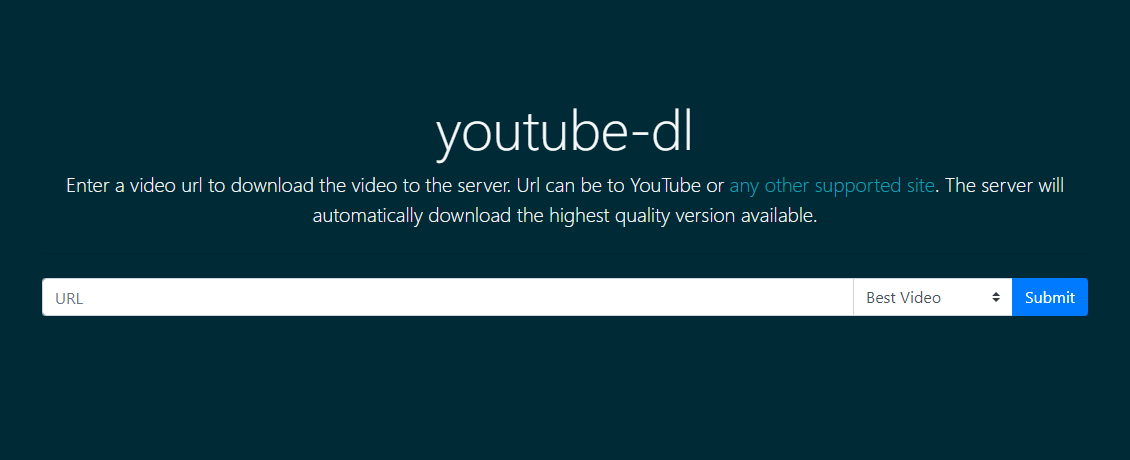
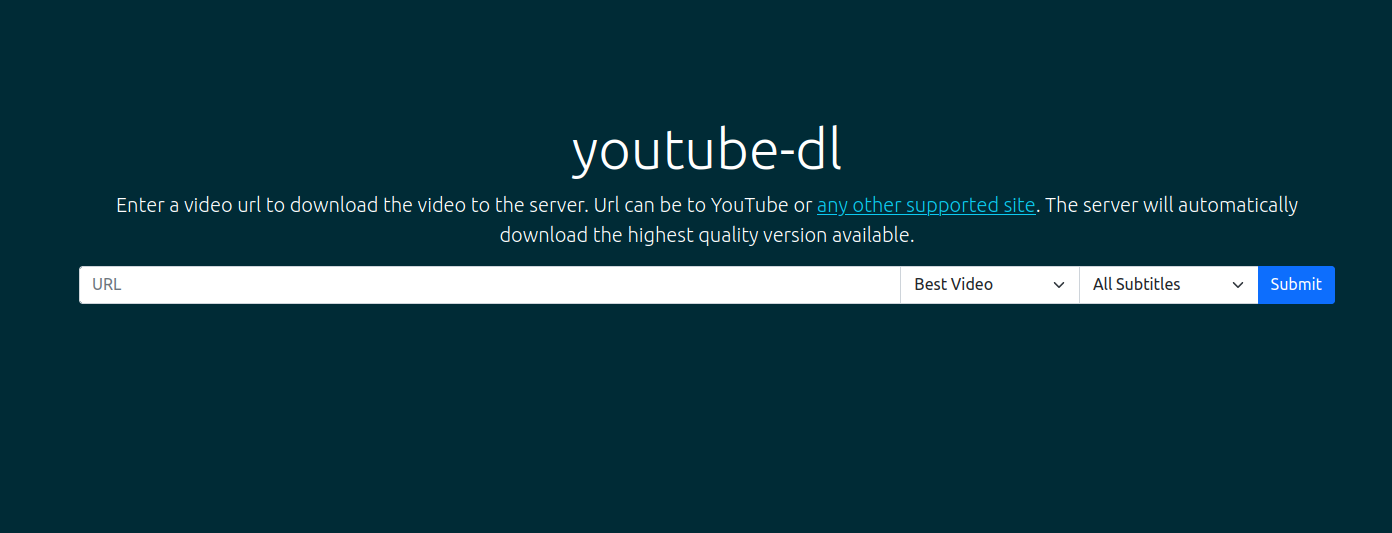
feat: add option to download subtitles
The option also include a way to convert the subtitles to srt, to support older video players

Changed region(s): [[0.031, 0.213, 0.9602, 0.7]]

diff --git a/templates/index.html b/templates/index.html
@@ -76,6 +76,11 @@
                 <option value="wav">WAV</option>
               </optgroup>
             </select>
+            <select class="form-select" name="subtitles">
+              <option value="no-subtitles">No Subtitles</option>
+              <option value="all">All Subtitles</option>
+              <option value="all-srt">All Subtitles - SRT format (not compatible with webm)</option>
+            </select>
             <button class="btn btn-primary" type="submit" id="button-submit">
               Submit
             </button>

diff --git a/youtube-dl-server.py b/youtube-dl-server.py
@@ -23,6 +23,8 @@ app_defaults = {
     "YDL_OUTPUT_TEMPLATE": config("YDL_OUTPUT_TEMPLATE", cast=str, default="/youtube-dl/%(title).200s [%(id)s].%(ext)s"),
     "YDL_ARCHIVE_FILE": config("YDL_ARCHIVE_FILE", default=None),
     "YDL_UPDATE_TIME": config("YDL_UPDATE_TIME", cast=bool, default=True),
+    "YDL_WRITE_SUBTITLES": config("YDL_WRITE_SUBTITLES", cast=bool, default=False),
+    "YDL_SUBTITLES_SRT": config("YDL_SUBTITLES_SRT", cast=bool, default=False),
 }
 
 
@@ -38,7 +40,10 @@ async def q_put(request):
     form = await request.form()
     url = form.get("url").strip()
     ui = form.get("ui")
-    options = {"format": form.get("format")}
+    options = {
+        "format": form.get("format"),
+        "subtitles": form.get("subtitles")
+        }
 
     if not url:
         return JSONResponse(
@@ -82,6 +87,7 @@ def get_ydl_options(request_options):
     }
 
     requested_format = request_options.get("format", "bestvideo")
+    requested_subtitles = request_options.get("subtitles", "no-subtitles")
 
     if requested_format in ["aac", "flac", "mp3", "m4a", "opus", "vorbis", "wav"]:
         request_vars["YDL_EXTRACT_AUDIO_FORMAT"] = requested_format
@@ -89,6 +95,11 @@ def get_ydl_options(request_options):
         request_vars["YDL_EXTRACT_AUDIO_FORMAT"] = "best"
     elif requested_format in ["mp4", "flv", "webm", "ogg", "mkv", "avi"]:
         request_vars["YDL_RECODE_VIDEO_FORMAT"] = requested_format
+    
+    if requested_subtitles != "no-subtitles":
+        request_vars["YDL_WRITE_SUBTITLES"] = True
+    if requested_subtitles == "all-srt":
+        request_vars["YDL_SUBTITLES_SRT"] = True
 
     ydl_vars = app_defaults | request_vars
 
@@ -110,6 +121,25 @@ def get_ydl_options(request_options):
                 "preferedformat": ydl_vars["YDL_RECODE_VIDEO_FORMAT"],
             }
         )
+    
+    if ydl_vars["YDL_SUBTITLES_SRT"] == True and ydl_vars["YDL_WRITE_SUBTITLES"] == True:
+        # convert the subtitles to SRT - required if your video player cannot read new formats (e.g. Kodi 18)
+        postprocessors.append(
+            {
+                "key": "FFmpegSubtitlesConvertor",
+                'format': "srt"
+            }
+        )
+
+    if ydl_vars["YDL_WRITE_SUBTITLES"] == True:
+        # merge the subtitles in the output file
+        postprocessors.append(
+            {
+                "key": "FFmpegEmbedSubtitle",
+                'already_have_subtitle': False
+            }
+        )
+
 
     return {
         "format": ydl_vars["YDL_FORMAT"],
@@ -117,11 +147,16 @@ def get_ydl_options(request_options):
         "outtmpl": ydl_vars["YDL_OUTPUT_TEMPLATE"],
         "download_archive": ydl_vars["YDL_ARCHIVE_FILE"],
         "updatetime": ydl_vars["YDL_UPDATE_TIME"] == "True",
+        "writesubtitles": ydl_vars["YDL_WRITE_SUBTITLES"],
+        "subtitleslangs": ["all"],
+        "allsubtitles": True
     }
 
 
 def download(url, request_options):
-    with YoutubeDL(get_ydl_options(request_options)) as ydl:
+    opts = get_ydl_options(request_options)
+    print(f"downloading {url} with options {opts}")
+    with YoutubeDL(opts) as ydl:
         ydl.download([url])
 
 
